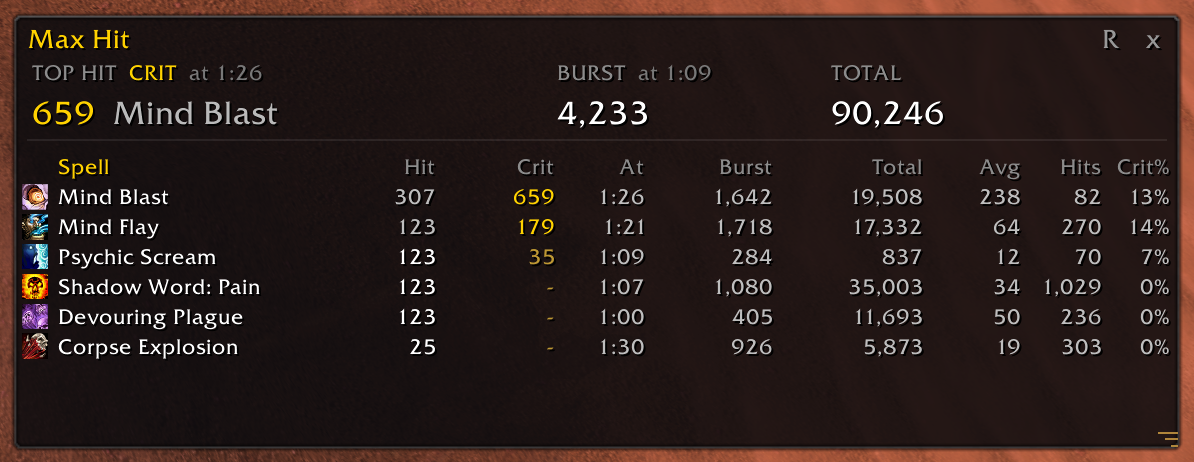
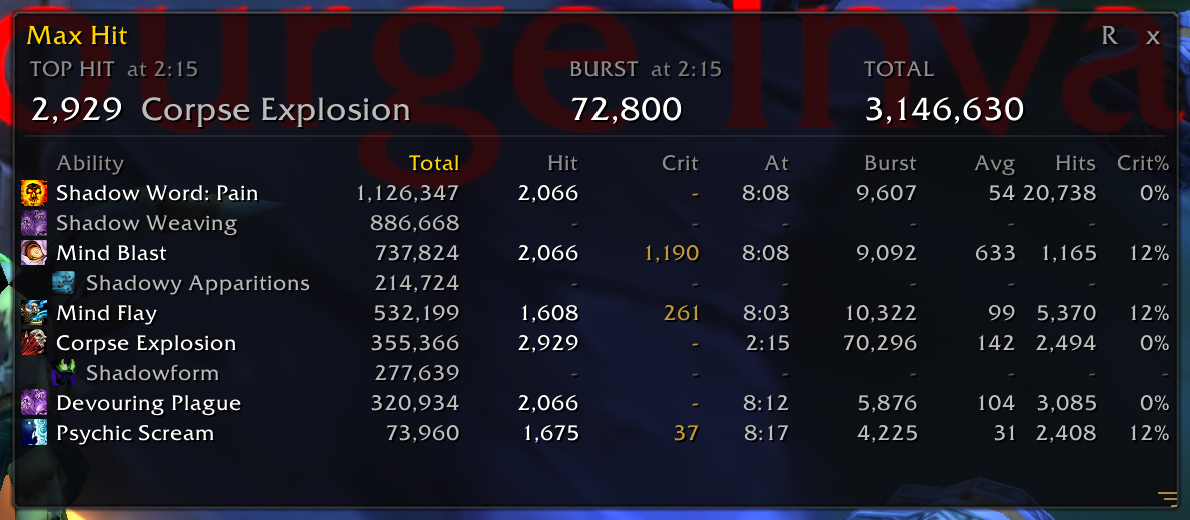
Procs under their ability, Total first, Ability column (1.1.0)

diff --git a/README.md b/README.md
@@ -5,20 +5,21 @@
 [![Tested with game 0.132.0](https://img.shields.io/badge/tested%20with%20game-0.132.0-brightgreen)](CHANGELOG.md)
 [![License: MIT](https://img.shields.io/badge/license-MIT-blue)](LICENSE)
 
-An addon for [Azeroth Survivors](https://wow.aethus.pl/) that shows each spell's **biggest hit**, **biggest crit**, **burst** and **total damage** for the current run.
+An addon for [Azeroth Survivors](https://wow.aethus.pl/) that shows each ability's **biggest hit**, **biggest crit**, **burst** and **total damage** for the current run.
 
-Damage meters tell you which spell did the most damage overall. AZS Max Hit tells you how hard each spell actually hits: the single biggest number it put on an enemy, and the most damage it did in one second.
+Damage meters tell you which ability did the most damage overall. AZS Max Hit tells you how hard each ability actually hits: the single biggest number it put on an enemy, and the most damage it did in one second.
 
-![AZS Max Hit: your spells this run](images/main.png)
+![AZS Max Hit: your abilities this run](images/main.png)
 
 **[Download the latest version](https://github.com/GhoulCompiler/AZSMaxHit/releases/latest)** · [What's new](CHANGELOG.md)
 
 ## Features
 
-- **Summary at the top:** your top hit (with the spell, whether it crit, and when), your best burst, and your total damage this run.
-- **A row per spell** (melee, pets and procs included) with its biggest normal hit, biggest crit, run time of its top hit, burst, total, average hit, hit count and crit rate. Click a column header to sort by it.
+- **Summary at the top:** your top hit (with the ability, whether it crit, and when), your best burst, and your total damage this run.
+- **A row per ability** (spells, melee, pets and procs) with its total, biggest normal hit, biggest crit, run time of its top hit, burst, average hit, hit count and crit rate. Click a column header to sort by it.
 - **Pets and summons** get their own rows, e.g. `Water Elemental: Waterbolt`.
-- **Party view in co-op:** a Party tab compares every hero side by side: top spell, its DPS, DPS, total and share, straight from the game's party meter. See [Co-op](#co-op).
+- **Procs under their ability:** item and talent procs (Pendant of the Plague, Shadowy Apparitions, Shadowform, ...) appear indented under the ability that triggers them, with their total from the game's meter. The game doesn't report single proc hits, so their other columns show a dim *-*.
+- **Party view in co-op:** a Party tab compares every hero side by side: top ability, its DPS, DPS, total and share, straight from the game's party meter. See [Co-op](#co-op).
 - **Icons** from your spellbook, talents and the game's own meter.
 - **Fresh every run:** the window clears by itself when a new run starts. Nothing from past runs is kept.
 - **Resizable:** drag the grip in the bottom-right corner to set the height; scroll with the mouse wheel.
@@ -27,13 +28,13 @@ Pure Lua (`.toc` and `.lua` only): no DLLs or executables. Works in the browser 
 
 ## Co-op
 
-In co-op, two tabs appear under the summary: one with your name for your own spells, and **Party** to compare everyone.
+In co-op, two tabs appear under the summary: one with your name for your own abilities, and **Party** to compare everyone.
 
 | Your tab | Party tab |
 |---|---|
-| ![Your spells in co-op](images/coop.png) | ![Party tab: every hero side by side](images/party.png) |
+| ![Your abilities in co-op](images/coop.png) | ![Party tab: every hero side by side](images/party.png) |
 
-The Party tab shows each hero with their class icon and color, their top spell and its DPS, their DPS, total damage and share of the party's damage.
+The Party tab shows each hero with their class icon and color, their top ability and its DPS, their DPS, total damage and share of the party's damage.
 
 ## Install
 
@@ -65,7 +66,7 @@ The addon reads the damage the game reports, so turn these on in **Options → C
 | `/maxhit reset` | Clear the numbers now (they also clear by themselves at every new run) |
 | `/maxhit lock` | Lock the window's position and size |
 | `/maxhit icons` | Icons on or off |
-| `/maxhit meter` | List what the game's own meter reports, and spells still missing an icon |
+| `/maxhit meter` | List what the game's own meter reports, and abilities still missing an icon |
 | `/maxhit party` | List what the game's party meter reports (co-op) |
 | `/maxhit help` | List all commands in game |
 
@@ -73,11 +74,11 @@ The addon reads the damage the game reports, so turn these on in **Options → C
 
 | Column | Meaning |
 |---|---|
+| **Total** | All damage the ability did this run |
 | **Hit** | Biggest normal (non-crit) hit |
 | **Crit** | Biggest crit. Whichever of Hit and Crit is larger is highlighted |
-| **At** | Run time when the spell's top hit landed |
-| **Burst** | Most damage the spell did within any one second |
-| **Total** | All damage the spell did this run |
+| **At** | Run time when the ability's top hit landed |
+| **Burst** | Most damage the ability did within any one second |
 | **Avg** | Average hit |
 | **Hits** | Number of hits |
 | **Crit%** | Share of hits that crit |
@@ -86,12 +87,12 @@ The addon reads the damage the game reports, so turn these on in **Options → C
 
 - **Empty window, or DoTs and pets missing?** Check the [game settings](#game-settings).
 - The addon reads the combat log, which is in **English**. A game set to another language may need its own patterns; open an issue if that's you.
-- **Totals** come from the combat log, so they can differ a little from the game's own meter.
-- **Max hits are yours only.** The game doesn't send a partner's hits to your combat log, so the Party tab uses the game's party meter: total, DPS, share and top spell for each hero.
+- **An ability's row includes its procs.** The combat log reports proc hits under the triggering spell's name (Shadowy Apparitions as Mind Blast, Pendant of the Plague ticks as Shadow Word: Pain), so an ability's Total, Hits and top hit include them. The indented rows show each proc's own total from the game's meter. Procs the addon can't place under an ability, like Shadow Weaving, get a grayed row of their own. The talent-to-spell list covers all nine classes and comes from the talent tooltips; if a proc that casts one spell still shows on its own row, please [open an issue](https://github.com/GhoulCompiler/AZSMaxHit/issues) with the output of `/maxhit meter`.
+- **Max hits are yours only.** The game doesn't send a partner's hits to your combat log, so the Party tab uses the game's party meter: total, DPS, share and top ability for each hero.
 
 ## Feedback
 
-Found a bug or a spell with a question-mark icon? [Open an issue](https://github.com/GhoulCompiler/AZSMaxHit/issues) with a screenshot, and for icons the output of `/maxhit meter`.
+Found a bug or an ability with a question-mark icon? [Open an issue](https://github.com/GhoulCompiler/AZSMaxHit/issues) with a screenshot, and for icons the output of `/maxhit meter`.
 
 ## Credits
 

diff --git a/CHANGELOG.md b/CHANGELOG.md
@@ -1,5 +1,13 @@
 # Changelog
 
+## 1.1.0
+
+- Procs from items and talents now show indented under the spell that triggers them, with their total from the game's own meter. For example Pendant of the Plague under Shadow Word: Pain, Shadowy Apparitions under Mind Blast, and Shadowform under Corpse Explosion.
+- Procs that don't belong to one spell, like Shadow Weaving, get a grayed row of their own.
+- Talent procs for all nine classes are placed under the spell they cast (Hot Streak under Pyroblast, The Art of War under Exorcism, Omen of Clarity under Starfire, ...).
+- Total is now the first column, and the first column is called Ability, since it lists melee, pets and procs too.
+- The summary has more room for big totals.
+
 ## 1.0.0
 
 First public release. Tested with game 0.132.0.
